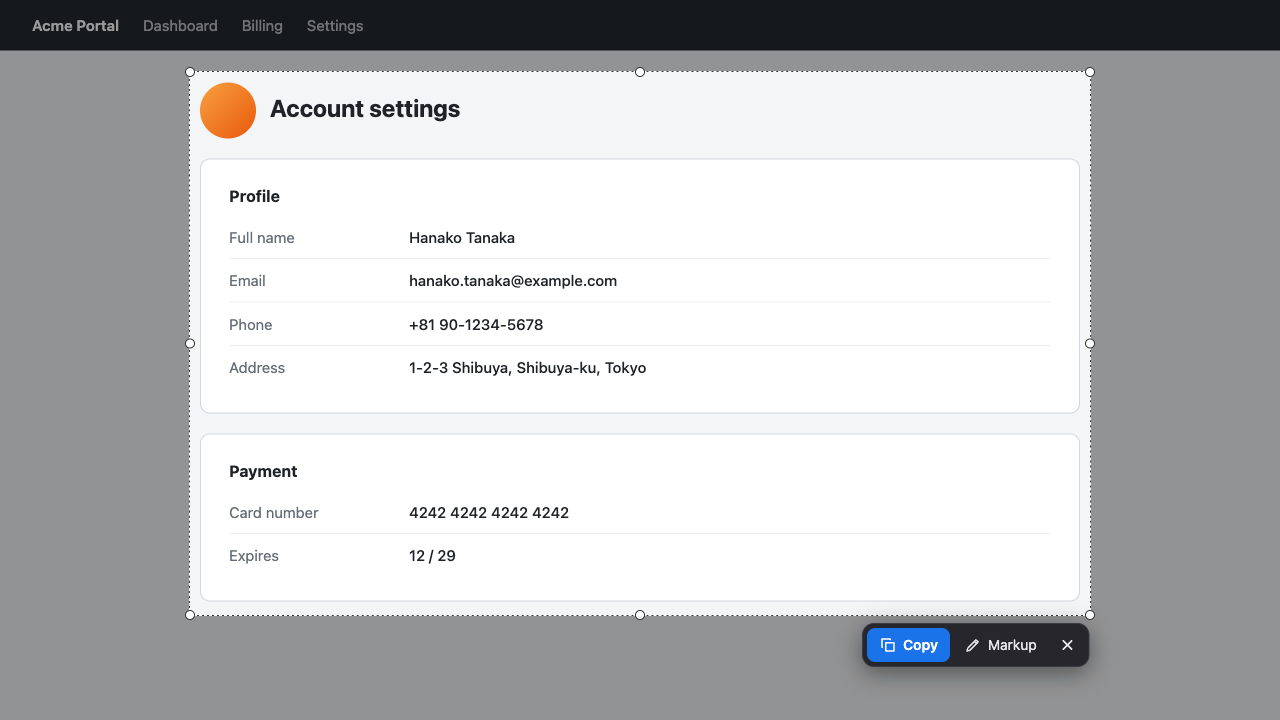
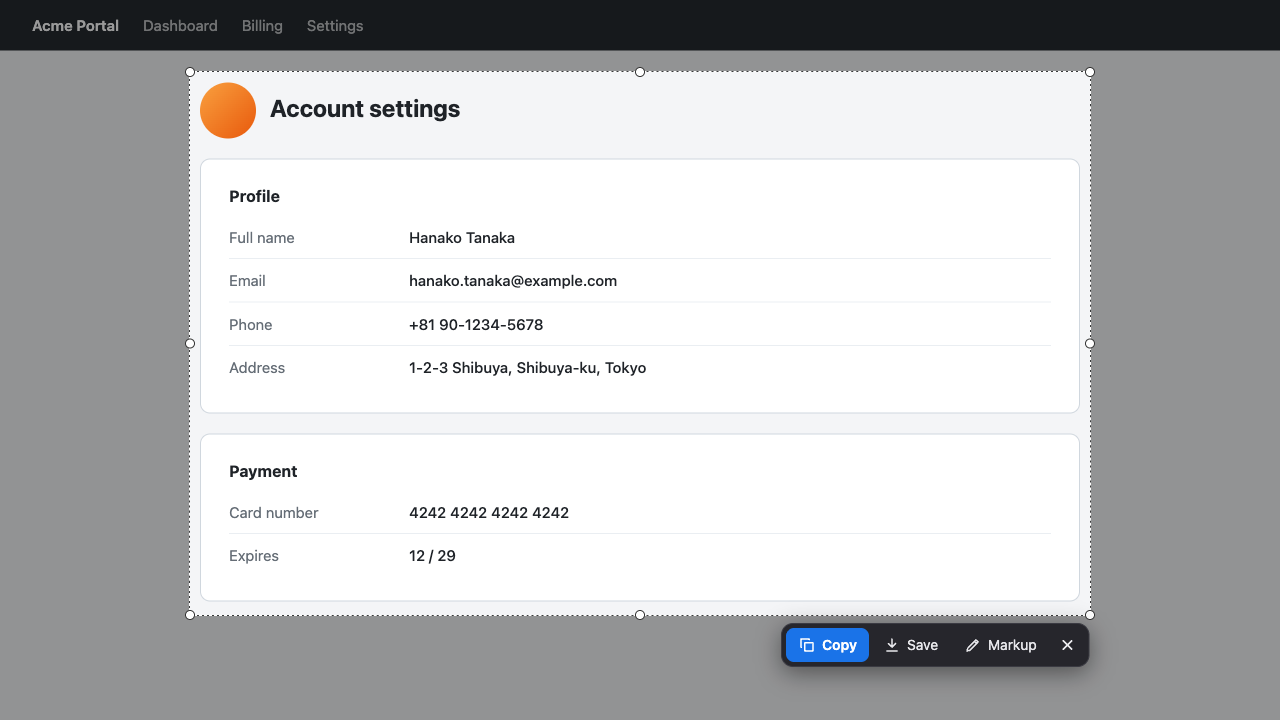
Update README screenshots for Save and Settings
- Retake select, markup and toolbar screenshots: Save button and
  settings button are now visible
- Add a screenshot of the Settings page

Changed region(s): [[0.5938, 0.8556, 0.75, 0.9472]]

diff --git a/README.md b/README.md
@@ -49,7 +49,7 @@ file only when you click **Save**. Nothing is uploaded.
 
 **2. Hide and annotate**, then **Copy** or **Save**.
 
-<img src="docs/toolbar.png" width="820" alt="Markup toolbar: blur, pixelate, redact, pen, rectangle, arrow, text, colors, sizes, undo, redo, copy">
+<img src="docs/toolbar.png" width="820" alt="Markup toolbar: blur, pixelate, redact, pen, rectangle, arrow, text, colors, sizes, undo, redo, save, copy, settings, close">
 
 Hide tools show a **Strength** slider. Draw tools show the colors and sizes.
 
@@ -81,6 +81,8 @@ the extension icon and choose **Options**.
   (or `edge://extensions/shortcuts`).
 - **Tool keys:** click a key, then press the new one. Keys must be unique. They apply to the
   next capture and sync across your browsers with your browser profile.
+
+<img src="docs/settings.png" width="420" alt="Settings page: capture shortcut with a Change button, editable tool keys, and the list of fixed keys">
 
 Defaults:
 
